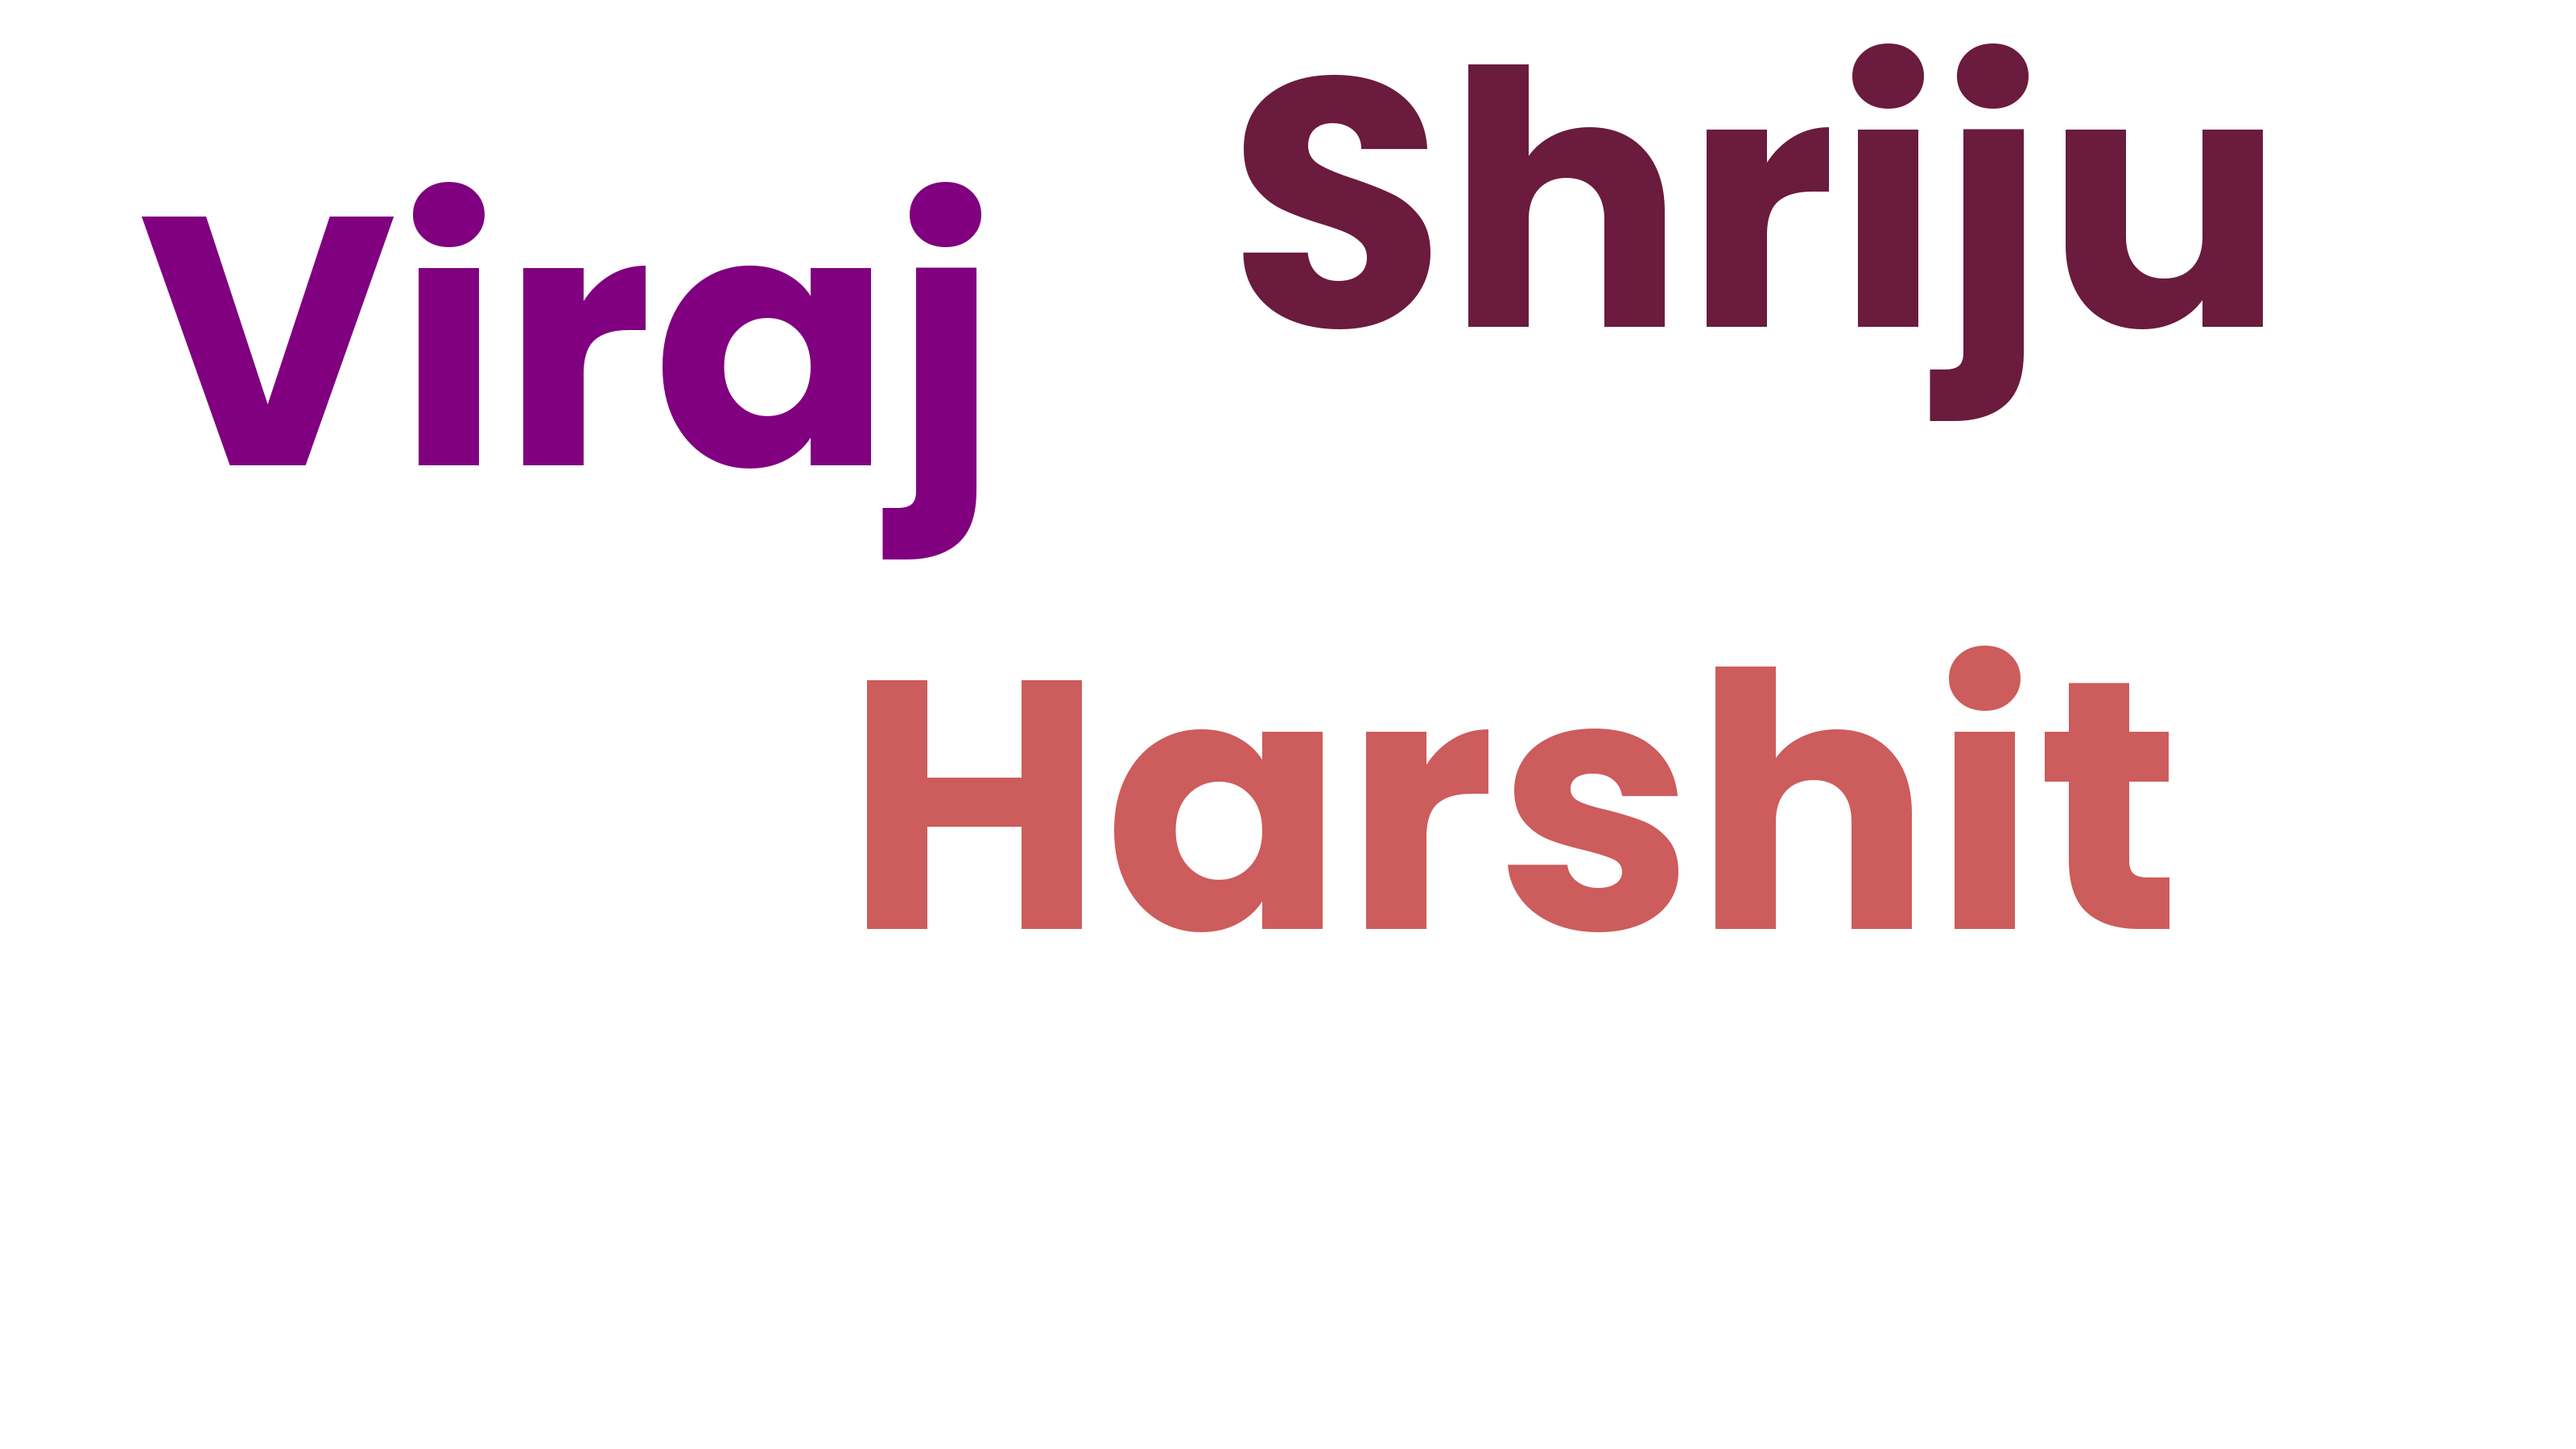
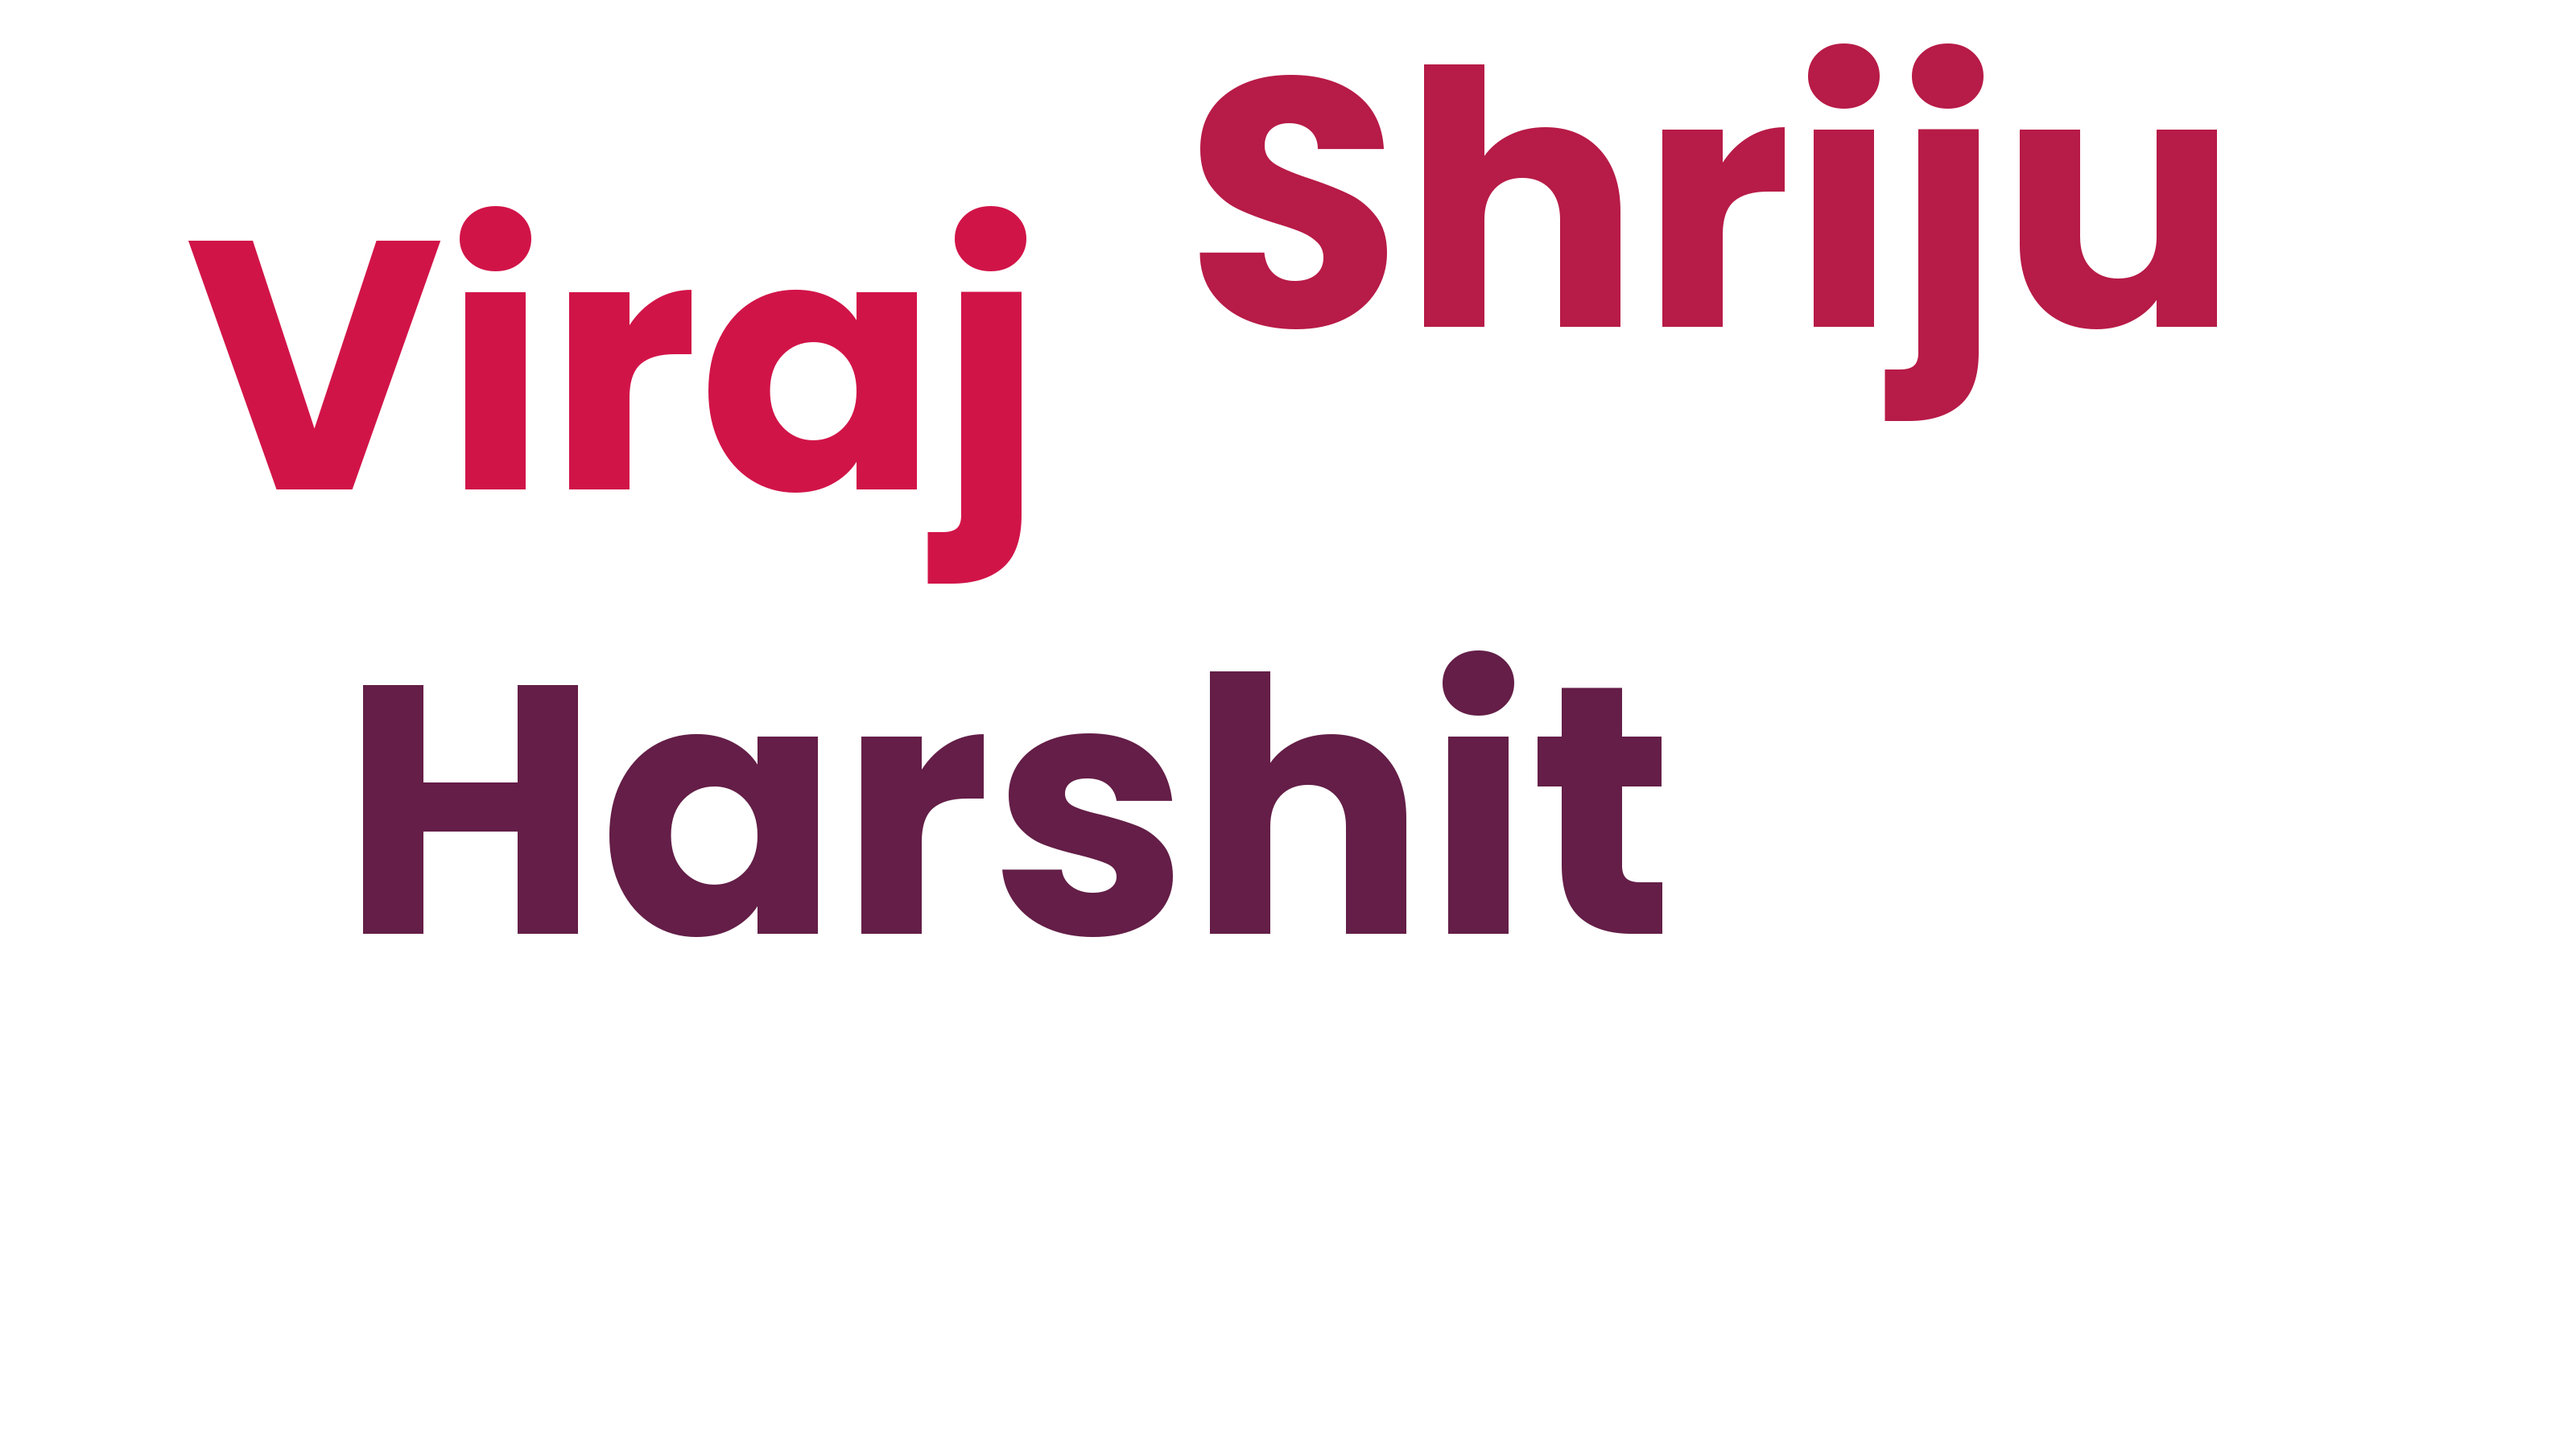
Refactor wordcloud generation to enhance word uniqueness and ensure proper formatting in output files

Changed region(s): [[0.125, 0.4356, 0.8438, 0.6533], [0.4688, 0.0311, 0.9062, 0.3111], [0.0312, 0.1244, 0.4062, 0.4044]]

diff --git a/generate_wordcloud.py b/generate_wordcloud.py
@@ -169,7 +169,10 @@ def get_words_from_issues():
 def get_local_words():
     if os.path.exists('wordcloud.txt'):
         with open('wordcloud.txt', 'r', encoding='utf-8') as f:
-            return f.read().split()
+            words = []
+            for line in f:
+                words.extend(normalize_words(line.strip()))
+            return unique_words(words)
     return DEFAULT_WORDS
 
 def main():
@@ -180,9 +183,9 @@ def main():
 
     # Save processed words locally
     with open('wordcloud.txt', 'w', encoding='utf-8') as f:
-        f.write("\n".join(words))
+        f.write("\n".join(words) + "\n")
 
-    text = " ".join(words)
+    frequencies = {word: 1 for word in words}
     font_path = ensure_poppins_font()
     
     # Tight layout with bold Poppins and white background.
@@ -202,7 +205,7 @@ def main():
         random_state=42,
         prefer_horizontal=0.95,
         scale=2,
-    ).generate(text)
+    ).generate_from_frequencies(frequencies)
     
     os.makedirs('images', exist_ok=True)
     wordcloud.to_file('images/wordcloud.png')
